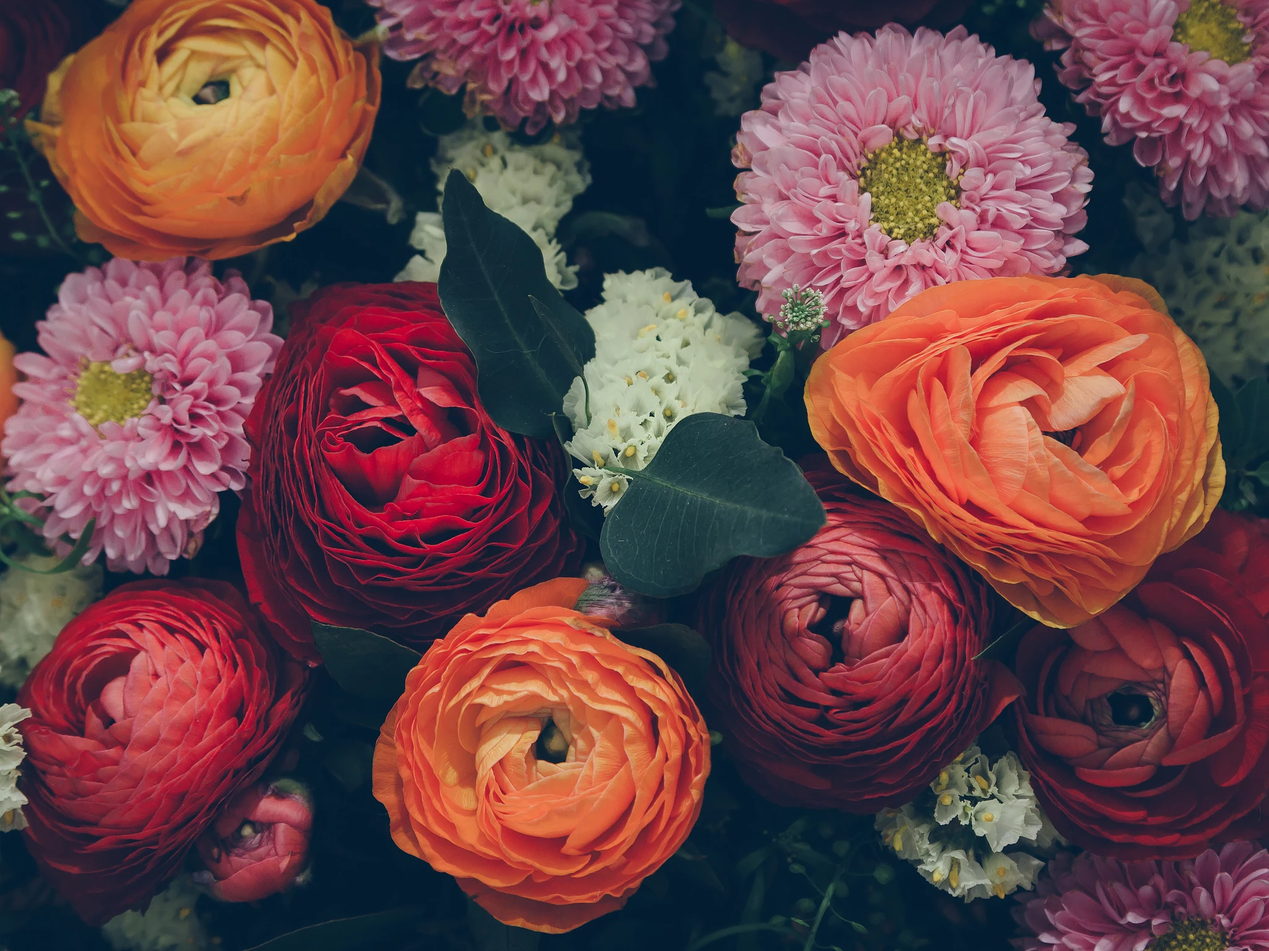
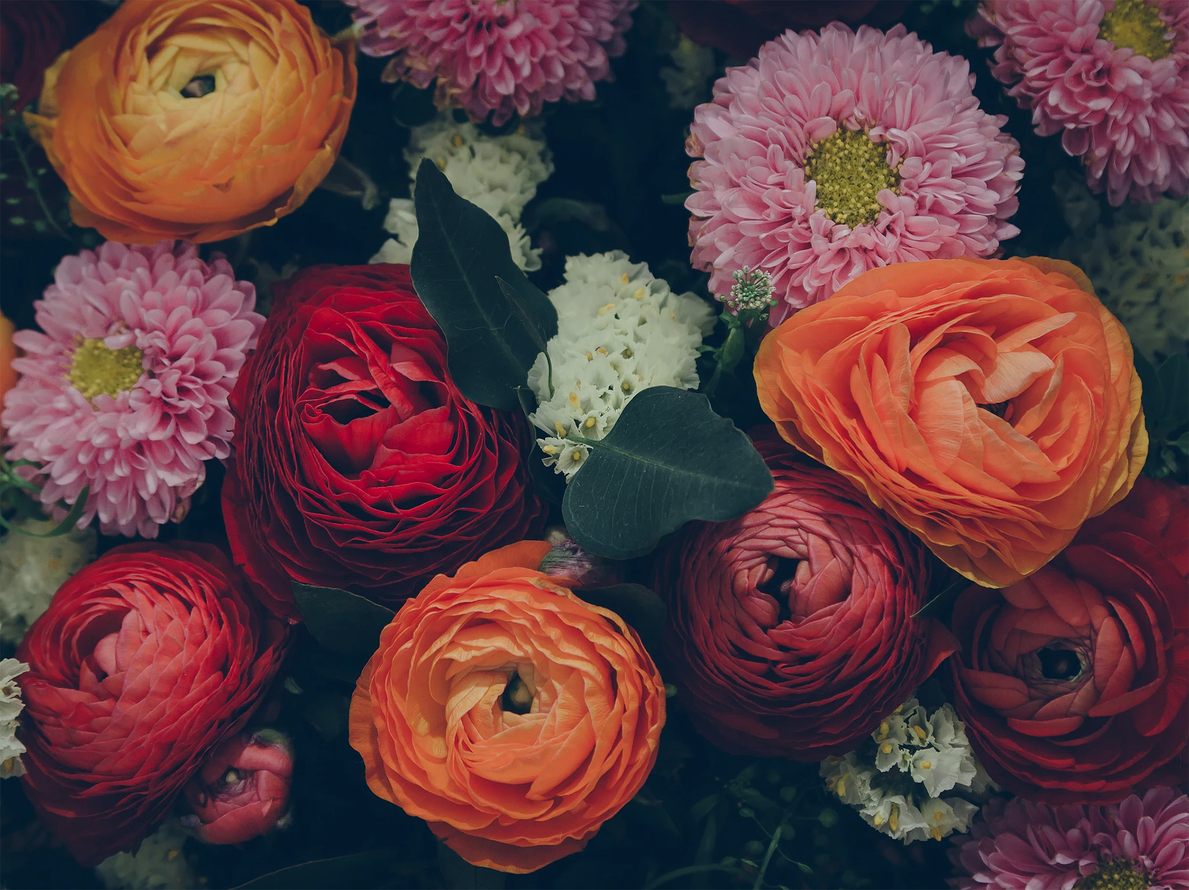
[feat] reviews

diff --git a/app/components/Review.js b/app/components/Review.js
@@ -1,0 +1,68 @@
+import React        from 'React';
+import styles       from '../styles/review';
+import don_img      from '../assets/don.jpg';
+import tiana_img    from '../assets/tiana.jpg';
+import justin_img   from '../assets/justin.jpg';
+
+
+class Review extends React.Component {
+
+    constructor(props) {
+        super(props);
+    }
+
+    createStep ({ name, img, text }, index) {
+        return (
+            <div className="col-md-3 col-sm-12 push-down" key={ index } style={ styles.reviews }>
+                <div>
+                    <img className="img-circle" style={ styles.img } src={ img } />
+                    <h4 className="text-capitalize"> { name } </h4>
+                </div>
+
+                <p className="text-center">
+                    { text }
+                </p>
+            </div>
+        )
+    }
+
+    render () {
+        return (
+            <div className="container container-fluid text-center" style={ styles.container }>
+                <h1 className="white-header"> HAPPY CUSTOMERS </h1>
+                
+                <div className="container">
+                    <div className="row" style={ styles.flex }>
+                        { this.props.steps.map(this.createStep) }
+                    </div>
+                </div>
+
+                <button type="submit" className="btn btn-lg btn-default push-down">
+                    BOOK NOW
+                </button>
+            </div> 
+        );
+    }
+};
+
+Review.defaultProps = {
+    steps: [
+        {
+            img     : don_img,
+            name    : 'don mamaril',
+            text    : 'MIB, you guys are amazing! I booked yesterday for a last minute cleaning today, Christmas Eve, and not only was I so thrilled to find that you had availability, the two cleaners who came to my house were rock stars! They did a seriously thorough and amazing job. What a relief!'
+        },
+        {
+            img     : tiana_img,
+            name    : 'tiana rae tran',
+            text    : 'I was out of town and friends needed to use my apartment the next day. Not only were you guys able to clean my apartment in a rush, you also sent me digital pictures of my apartment showing what a great job you did. Blown away by the customer service. You guys are the best!'
+        },
+        {
+            img     : justin_img,
+            name    : 'justin watkins',
+            text    : `You guys did such a great job, thanks so much. There was NO dog hair in sight and with two dogs and a long hair cat, that's a HUGE accomplishment. The floors are clean and the ceiling fans are beautiful! Thanks to Jessica and her team, for bravely entering my dirty house and doing such an amazing job!`
+        }
+    ]
+};
+
+export default Review;

diff --git a/app/components/Home.js b/app/components/Home.js
@@ -2,6 +2,7 @@ import React from 'react';
 import styles from '../styles/home';
 import How from './How';
 import Trust from './Trust';
+import Review from './Review';
 
 class Home extends React.Component {
     render () {
@@ -15,6 +16,16 @@ class Home extends React.Component {
                 <How />
 
                 <Trust />
+
+                <Review />
+
+                <div className="jumbotron text-center" style={ styles.jumbotron }>
+                    <h2 className="black-header"> BOOK A HOUSE CLEANING IN 60 SECONDS </h2>
+
+                    <button className="btn btn-lg btn-danger">
+                        BOOK APPOINTMENT
+                    </button>
+                </div>
             </div>
         );
     }

diff --git a/app/styles/review.js b/app/styles/review.js
@@ -1,0 +1,33 @@
+import bg from '../assets/flowers.jpg';
+
+export default {
+
+
+    container: {
+        backgroundImage: `url(${ bg })`,
+        backgroundAttachment: 'fixed',
+        backgroundPosition: 'center',
+        backgroundRepeat: 'no-repeat',
+        backgroundSize: 'cover',
+        WebkitBackgroundSize: 'cover'
+    },
+
+    reviews: {
+        background: 'rgba(255, 255, 255, 0.8)',
+        padding: '10px'
+    },
+
+    img: {
+        height: '100px'
+    },
+
+    center: {
+        margin: '0 auto',
+    },
+
+    flex: {
+        display: 'flex',
+        justifyContent: 'space-around',
+        flexWrap: 'wrap'
+    }
+}

diff --git a/app/styles/home.js b/app/styles/home.js
@@ -1,4 +1,4 @@
-import bg_url from '../assets/home_md.jpg';
+import bg_url from '../assets/home.jpg';
 
 
 export default {
@@ -10,6 +10,7 @@ export default {
     },
 
     jumbotron: {
-        
+        backgroundColor: 'white',
+        marginBottom: '0'
     }
 }

diff --git a/app/styles/trust.js b/app/styles/trust.js
@@ -1,6 +1,11 @@
 export default {
     container: {
+        paddingTop: '50px',
         backgroundColor: '#262626',
         color: 'white !important'
+    },
+
+    icon: {
+        fontSize: '2em'
     }
 }
